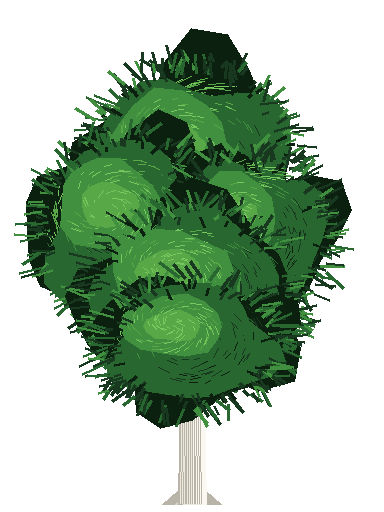
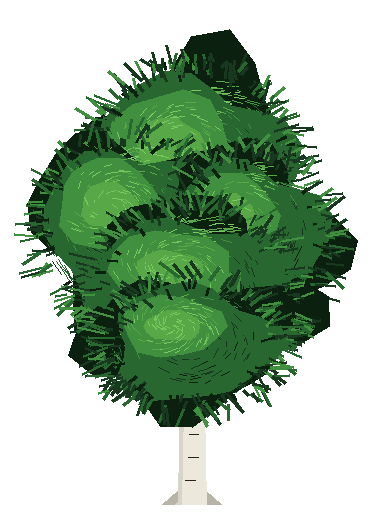
Fix combat anims, car door side, and city tree PNGs
Combat:
- draw punch/shoot via clip-only pose borrow (no idle/walk fallback)
- skip borrowing frame 0 when on later punch/shoot frames
- prefetch combat facing from aim angle on fire
- combat hold only when wf/dir matches

Vehicles:
- pedEntrySideForVehicle uses lateral axis (ly), not forward (lx)

Trees:
- remove city-only procedural guard so PNG sprites draw in town
- tree loader respects GitHub Pages base path (/topdown/)
- CI generates HD tree sprites on deploy

Build 2026062749

diff --git a/cursor/topdown-city/js/lib/people-sprites.js b/cursor/topdown-city/js/lib/people-sprites.js
@@ -358,35 +358,36 @@ function poseCandidates(wf, dir){
   return out;
 }
 
-/** Combat draw: exact pose only — borrowing other frames freezes the clip on frame 0. */
-function resolveCombatLayerImg(o, layerKey, wf, dir, priority){
-  if(layerKey==="hair"&&!o.hair) return null;
-  const path=singleLayerPath(o, layerKey, wf, dir);
-  if(!path) return null;
-  const im=getImg(path);
-  if(im) return im;
-  queueImg(path, null, priority!=null?priority:12);
-  return null;
-}
-
-function drawCombatLayers(c, o, wf, dir, ax, ay, sx, sy, bm, priority){
-  const order=meta.layer_order||["shoes","pants","arms","torso","skin","hair"];
-  let drew=0, need=0;
-  for(const k of order){
-    if(k==="hair"&&!o.hair) continue;
-    need++;
-    const im=resolveCombatLayerImg(o, k, wf, dir, priority);
-    if(!im) continue;
-    c.drawImage(im, -ax*bm.sx, -ay*bm.sy, im.width*sx, im.height*sy);
-    drew++;
+/** Combat borrow: same clip only; skip frame 0 when attacking on later frames. */
+function combatPoseCandidates(wf, dir){
+  const m=wf.match(/^([a-z]+)(\d+)$/);
+  if(!m) return [{wf, dir}];
+  const clipId=m[1], want=parseInt(m[2],10);
+  if(!isCombatClip(clipId)) return [{wf, dir}];
+  const spec=clipSpec(clipId);
+  const count=spec.count||1;
+  const dirs=facingDirs(dir);
+  const frames=[want];
+  for(let off=1; off<count; off++){
+    if(want+off<count) frames.push(want+off);
+    const earlier=want-off;
+    if(earlier>=0&&(want===0||earlier>0)) frames.push(earlier);
   }
-  return need>0&&drew===need;
+  const out=[], seen=new Set();
+  const add=(f,d)=>{
+    const k=f+"|"+d;
+    if(seen.has(k)) return;
+    seen.add(k);
+    out.push({wf:f, dir:d});
+  };
+  for(const d of dirs) for(const fi of frames) add(clipId+fi, d);
+  return out;
 }
 
-function resolveLayerImg(o, layerKey, wf, dir, cache, priority){
+function resolveLayerImg(o, layerKey, wf, dir, cache, priority, candidateFn){
   if(layerKey==="hair"&&!o.hair) return null;
   const pri=priority!=null?priority:1;
-  const candidates=poseCandidates(wf, dir);
+  const candidates=candidateFn?candidateFn(wf, dir):poseCandidates(wf, dir);
   for(const {wf:w, dir:d} of candidates){
     const path=singleLayerPath(o, layerKey, w, d);
     if(!path) continue;
@@ -408,13 +409,13 @@ function resolveLayerImg(o, layerKey, wf, dir, cache, priority){
 }
 
 /** Each layer borrows nearest loaded frame/dir — no holes in torso/hair. */
-function drawLayersSmart(c, o, wf, dir, ax, ay, sx, sy, bm, cache, priority){
+function drawLayersSmart(c, o, wf, dir, ax, ay, sx, sy, bm, cache, priority, candidateFn){
   const order=meta.layer_order||["shoes","pants","arms","torso","skin","hair"];
   let drew=0, need=0;
   for(const k of order){
     if(k==="hair"&&!o.hair) continue;
     need++;
-    const im=resolveLayerImg(o, k, wf, dir, cache, priority);
+    const im=resolveLayerImg(o, k, wf, dir, cache, priority, candidateFn);
     if(!im) continue;
     c.drawImage(im, -ax*bm.sx, -ay*bm.sy, im.width*sx, im.height*sy);
     drew++;
@@ -683,15 +684,16 @@ function drawComposite(c, p, down, forcedDir){
       prefetchOutfit(o, wfRaw, dir, false, 20);
     }
     if(p._animClip) prefetchClipDir(o, p._animClip, dir, loadPri);
-    if(drawCombatLayers(c, o, wfRaw, dir, ax, ay, sx, sy, bm, loadPri)){
+    const combatSmart=drawLayersSmart(c, o, wfRaw, dir, ax, ay, sx, sy, bm, null, loadPri, combatPoseCandidates);
+    if(combatSmart.complete||combatSmart.drew>0){
       drew=true;
-      const bakedIm=tryBake(o, wfRaw, dir);
-      if(bakedIm){
-        lastHold[uid]={wf:wfRaw, dir, canvas:bakedIm, combat:true};
+      if(combatSmart.complete){
+        const bakedIm=tryBake(o, wfRaw, dir);
+        if(bakedIm) lastHold[uid]={wf:wfRaw, dir, canvas:bakedIm, combat:true};
       }
     }else{
       const hold=lastHold[uid];
-      if(hold&&hold.combat&&hold.canvas){
+      if(hold&&hold.combat&&hold.canvas&&hold.wf===wfRaw&&hold.dir===dir){
         c.drawImage(hold.canvas, -ax*bm.sx, -ay*bm.sy, sprW*sx, sprH*sy);
         drew=true;
       }

diff --git a/cursor/topdown-city/js/08-render-assets.js b/cursor/topdown-city/js/08-render-assets.js
@@ -1936,15 +1936,28 @@ function treeVisible(p,cl,cr,ct,cb){ const b=treeScreenBox(p); return b.maxX>=cl
 // ── PNG tree sprites (Pillow-generated, assets/trees/*.png) ──────────────
 const TREE_SPRITE={ready:false,meta:null,img:{}};
 window.TREE_SPRITE=TREE_SPRITE;
+function treeAssetRoot(){
+  const b=typeof window!=="undefined"&&window.__GAME_BASE;
+  if(typeof b==="string"&&b.length) return b.endsWith("/")?b:b+"/";
+  if(typeof location!=="undefined"){
+    const path=location.pathname||"";
+    const pages=path.match(/^(.*\/topdown\/)/);
+    if(pages) return pages[1];
+    const nested=path.match(/^(.*\/cursor\/topdown-city\/)/);
+    if(nested) return nested[1];
+  }
+  return "";
+}
 (function loadTreeSprites(){
-  fetch("assets/trees/meta.json").then(r=>r.json()).then(meta=>{
+  const root=treeAssetRoot();
+  fetch(root+"assets/trees/meta.json").then(r=>r.json()).then(meta=>{
     TREE_SPRITE.meta=meta;
     const kinds=Object.keys(meta.kinds); let left=kinds.length||0;
     if(!left){ TREE_SPRITE.ready=true; return; }
     for(const k of kinds){
       const im=new Image();
       im.onload=im.onerror=()=>{ if(--left<=0) TREE_SPRITE.ready=true; };
-      im.src="assets/trees/"+meta.kinds[k].file;
+      im.src=root+"assets/trees/"+meta.kinds[k].file;
       TREE_SPRITE.img[k]=im;
     }
   }).catch(()=>{});
@@ -1999,7 +2012,6 @@ function drawLeaningTreeStrip(p,sy0,sy1){
   return true;
 }
 function drawTreeTrunkSprite(p){
-  if(p.city) return false;
   const tr=p.trunk||{tw:p.s*0.1,frac:0.5};
   if(tr.frac<0.18) return true;
   const hw=tr.tw*0.72, bx=p.x, by=p.y;
@@ -2008,7 +2020,6 @@ function drawTreeTrunkSprite(p){
   return drawLeaningTreeStrip(p, Math.max(0, m.splitY-Math.max(2, Math.round(m.height/64))), m.height);
 }
 function drawTreeCanopySprite(p){
-  if(p.city) return false;
   const m=treeKindMeta(p.kind||"deciduous"), split=Math.min(m.height-1, m.splitY+Math.max(14, Math.round(m.height/36)));
   return drawLeaningTreeStrip(p, 0, split);
 }

diff --git a/cursor/topdown-city/js/03-traffic.js b/cursor/topdown-city/js/03-traffic.js
@@ -669,8 +669,10 @@ function updateNpcPed(p,dt){
       if(typeof LivingSprite!=="undefined"){
         const pmeta=typeof PeopleSprites!=="undefined"?PeopleSprites.meta:null;
         LivingSprite.startAttackClip(p, "shoot", pmeta);
-        if(typeof PeopleSprites!=="undefined"&&PeopleSprites.beginPedCombat)
-          PeopleSprites.beginPedCombat(p, "shoot");
+        if(typeof PeopleSprites!=="undefined"&&PeopleSprites.beginPedCombat){
+          const face=LivingSprite.dirNameFromAngle?LivingSprite.dirNameFromAngle(ang):null;
+          PeopleSprites.beginPedCombat(p, "shoot", face);
+        }
       }
     }
     { const ci=Math.floor((p.x-ROAD)/GAP), cj=Math.floor((p.y-ROAD)/GAP);

diff --git a/cursor/topdown-city/js/39-vehicle-system.js b/cursor/topdown-city/js/39-vehicle-system.js
@@ -114,8 +114,8 @@ function ensureVehicleDoors(v){
 function pedEntrySideForVehicle(v, px, py){
   const c=Math.cos(v.a||0), s=Math.sin(v.a||0);
   const dx=(px!=null?px:ped.x)-v.x, dy=(py!=null?py:ped.y)-v.y;
-  const lx=dx*c+dy*s;
-  return lx<0?"left":"right";
+  const ly=-dx*s+dy*c;
+  return ly>=0?"left":"right";
 }
 
 function setVehicleDoorOpen(v, side, open){

diff --git a/cursor/topdown-city/js/15-combat.js b/cursor/topdown-city/js/15-combat.js
@@ -379,7 +379,8 @@ function updateCombat(dt){
         const pmeta=typeof PeopleSprites!=="undefined"?PeopleSprites.meta:null;
         LivingSprite.startAttackClip(ped, w.kind==="melee"?"punch":"shoot", pmeta);
         if(typeof PeopleSprites!=="undefined"&&PeopleSprites.beginPedCombat){
-          PeopleSprites.beginPedCombat(ped, w.kind==="melee"?"punch":"shoot");
+          const face=LivingSprite.dirNameFromAngle?LivingSprite.dirNameFromAngle(ang):null;
+          PeopleSprites.beginPedCombat(ped, w.kind==="melee"?"punch":"shoot", face);
         }
       }
       if(w.kind!=="melee"){

diff --git a/cursor/topdown-city/index.html b/cursor/topdown-city/index.html
@@ -351,7 +351,7 @@
   <script src="js/07-boats.js"></script>
   <script src="js/lib/gta2-outfit.js"></script>
   <script src="js/lib/living-sprite.js"></script>
-  <script src="js/lib/people-sprites.js?v=2026062748"></script>
+  <script src="js/lib/people-sprites.js?v=2026062749"></script>
   <script src="js/08-render-assets.js"></script>
   <script src="js/09-gauge.js"></script>
   <script src="js/10-time.js"></script>